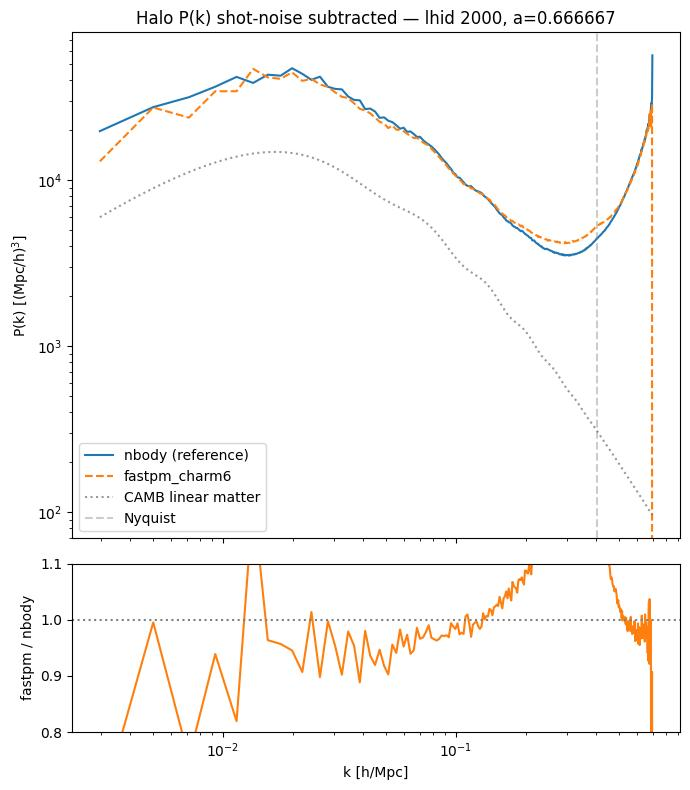
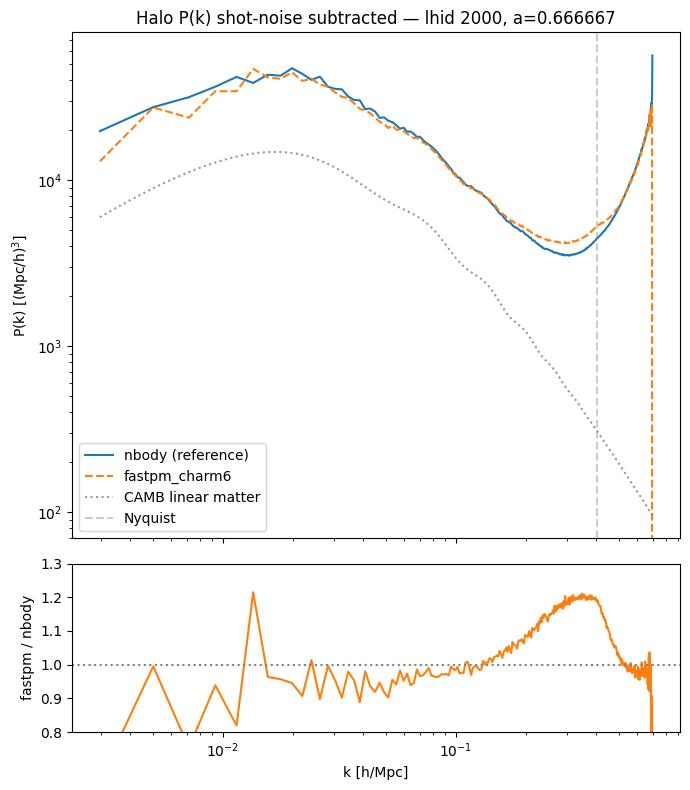
self consistent tests of rebinned quijotelike

diff --git a/scripts/model_scaling_diagnostics.py b/scripts/model_scaling_diagnostics.py
@@ -43,15 +43,16 @@ def _parse_args():
 
 # kmax sweep: fix one summary, vary kmax
 KMAX_SUMMARY = f'{Z}Pk0+{Z}Pk2+{Z}Pk4'
-KMAX_VALUES = [0.1, 0.2, 0.3, 0.4]
+KMAX_VALUES = [0.1, 0.2, 0.3, 0.4, 0.5, 0.6]
 
 # feature sweep: fix kmax, vary summary complexity
 FEAT_KMAX = 0.4
 FEAT_SUMMARIES = [
     f'{Z}Pk0',
     f'{Z}Pk0+{Z}Pk2+{Z}Pk4',
-    f'{Z}Pk0+{Z}Pk2+{Z}Pk4+{Z}Bk0',
     f'{Z}Pk0+{Z}Pk2+{Z}Pk4+{Z}EqBk0',
+    f'{Z}Pk0+{Z}Pk2+{Z}Pk4+{Z}SqBk0',
+    f'{Z}Pk0+{Z}Pk2+{Z}Pk4+{Z}Bk0',
 ]
 
 # Fiducial cosmology for filtering test points

diff --git a/scripts/ood_noise_inference.py b/scripts/ood_noise_inference.py
@@ -26,14 +26,17 @@ _DEFAULT_NOISES_PATH = f'{_WDIR}/noise_priors/noisegrid.csv'
 
 SUMMARIES = [
     'zPk0+zPk2+zPk4',
-    'zPk0+zPk2+zPk4+zBk0',
     'zPk0+zPk2+zPk4+zEqBk0',
+    'zPk0+zPk2+zPk4+zSqBk0',
+    'zPk0+zPk2+zPk4+zBk0',
 ]
 
 KMINMAX_PAIRS = [
     (0.0, 0.2),
     (0.0, 0.3),
     (0.0, 0.4),
+    (0.0, 0.5),
+    (0.0, 0.6),
 ]
 
 

diff --git a/experiments/2026-06-17_self_quijotelike-fastpm_charm6_rebin/update.md b/experiments/2026-06-17_self_quijotelike-fastpm_charm6_rebin/update.md
@@ -1,0 +1,64 @@
+# Self-consistent diagnostics: quijotelike/fastpm_charm6_rebin
+
+**Date**: 2026-06-17
+**Type**: Self-consistent
+**Suite**: quijotelike/fastpm_charm6_rebin
+**Tracer**: galaxy
+**kmax sweep summary**: zPk0+zPk2+zPk4
+**kmax values**: 0.1, 0.2, 0.3, 0.4, 0.5, 0.6
+**Feature sweep kmax**: 0.4
+**Feature sweep summaries**: zPk0, zPk0+zPk2+zPk4, zPk0+zPk2+zPk4+zEqBk0, zPk0+zPk2+zPk4+zSqBk0, zPk0+zPk2+zPk4+zBk0
+**Notes**: Rebinned power spectrum and bispectrum summaries; comparison to old (non-rebinned) CHARM6 summaries included.
+
+## Overview
+
+- Calibration is well-behaved across both sweeps. The median coverage fraction stays within ~0.49–0.53 for both Ωm and σ8 across all kmax values and all summary combinations, and the 68% interval fraction is consistently ~0.69–0.71. No sweep is flagged.
+
+- In the kmax sweep (zPk024), posterior stdev for both Ωm and σ8 decreases monotonically from kmax=0.2 to 0.4 and then plateaus within measurement uncertainty from 0.4 to 0.6. Adding higher multipoles and bispectra uniformly reduces stdev relative to zPk0 alone, with the largest gains at low kmax. By kmax=0.6, zPk024 with the full bispectrum (zBk0) achieves ΔΩm ≈ 0.019 and Δσ8 ≈ 0.021.
+
+- In the feature sweep (kmax=0.4), posterior stdev decreases monotonically as summaries are added: zPk024 → +zEqBk0/zSqBk0 → +zBk0. The full bispectrum (zBk0) yields the greatest improvement over the multipoles alone, reducing Δσ8 from ~0.035 to ~0.022. There is no non-monotonic increase when adding summaries.
+
+- The rebinned summaries achieve equal or better constraining power than the original (non-rebinned) CHARM6 summaries at kmax=0.4 across all summary combinations. The rebinned zBk0 in particular shows lower Δσ8 than the original zBk0, while Ωm performance is comparable. This confirms the rebinning does not sacrifice information.
+
+## Figures
+
+### kmax sweep
+
+<details>
+<summary>kmax scaling</summary>
+
+<img width="900" src="figures/model_scaling/kmax_sweep/kmax_scaling.jpg" />
+
+</details>
+
+<details>
+<summary>Calibration</summary>
+
+<img width="900" src="figures/model_scaling/kmax_sweep/calibration.jpg" />
+
+</details>
+
+### Feature sweep
+
+<details>
+<summary>Feature length scaling</summary>
+
+<img width="900" src="figures/model_scaling/feature_sweep/feature_length_scaling.jpg" />
+
+</details>
+
+<details>
+<summary>Calibration</summary>
+
+<img width="900" src="figures/model_scaling/feature_sweep/calibration.jpg" />
+
+</details>
+
+### Comparison to old CHARM6 summaries
+
+<details>
+<summary>Rebin vs. original summaries (kmax=0.4)</summary>
+
+<img width="900" src="figures/comparison_to_old_charm_summaries.jpg.png" />
+
+</details>

diff --git a/experiments/2026-06-17_self_quijotelike-fastpm_charm6_rebin/config.md b/experiments/2026-06-17_self_quijotelike-fastpm_charm6_rebin/config.md
@@ -1,0 +1,8 @@
+**Script**: model_scaling_diagnostics.py
+**Suite**: quijotelike/fastpm_charm6_rebin
+**Tracer**: galaxy
+**kmax sweep summary**: zPk0+zPk2+zPk4
+**kmax values**: 0.1, 0.2, 0.3, 0.4, 0.5, 0.6
+**Feature sweep kmax**: 0.4
+**Feature sweep summaries**: zPk0, zPk0+zPk2+zPk4, zPk0+zPk2+zPk4+zEqBk0, zPk0+zPk2+zPk4+zSqBk0, zPk0+zPk2+zPk4+zBk0
+**Notes**: 

diff --git a/experiments/README.md b/experiments/README.md
@@ -4,5 +4,6 @@
 |------|------|-------|------|-------|--------|
 | 2026-06-12 | Misc | quijotelike/fastpm_charm6 | abacuslike/fastpm_charm6 | Volume sanity check: HMF, P(k), velocities, spatial distribution | [update](2026-06-12_sanity_quijotelike-fastpm_charm6_abacuslike-fastpm_charm6/update.md) |
 | 2026-06-16 | Misc | quijote/nbody L=3 Gpc/h | fastpm_charm6 L=3 Gpc/h | Volume sanity check: HMF, P(k), velocities, high-mass tail anomaly | [update](2026-06-16_sanity_nbody_vs_fastpm_L3000/update.md) |
+| 2026-06-17 | Self | quijotelike/fastpm_charm6_rebin | — | kmax sweep (zPk024), feature sweep at kmax=0.4, comparison to old summaries | [update](2026-06-17_self_quijotelike-fastpm_charm6_rebin/update.md) |
 | 2026-06-15 | Self | quijotelike/fastpm_charm6 | — | kmax sweep (zPk024), feature sweep at kmax=0.4 | [update](2026-06-15_self_quijotelike-fastpm_charm6/update.md) |
 | 2026-06-15 | OOD | quijotelike/fastpm_charm6 | quijote/nbody_hodz_gridnoise | zPk024/zBk0/zEqBk0, kmax=0.2–0.4, noise grid | [update](2026-06-15_ood_quijotelike-fastpm_charm6_quijote-nbody_hodz_gridnoise/update.md) |